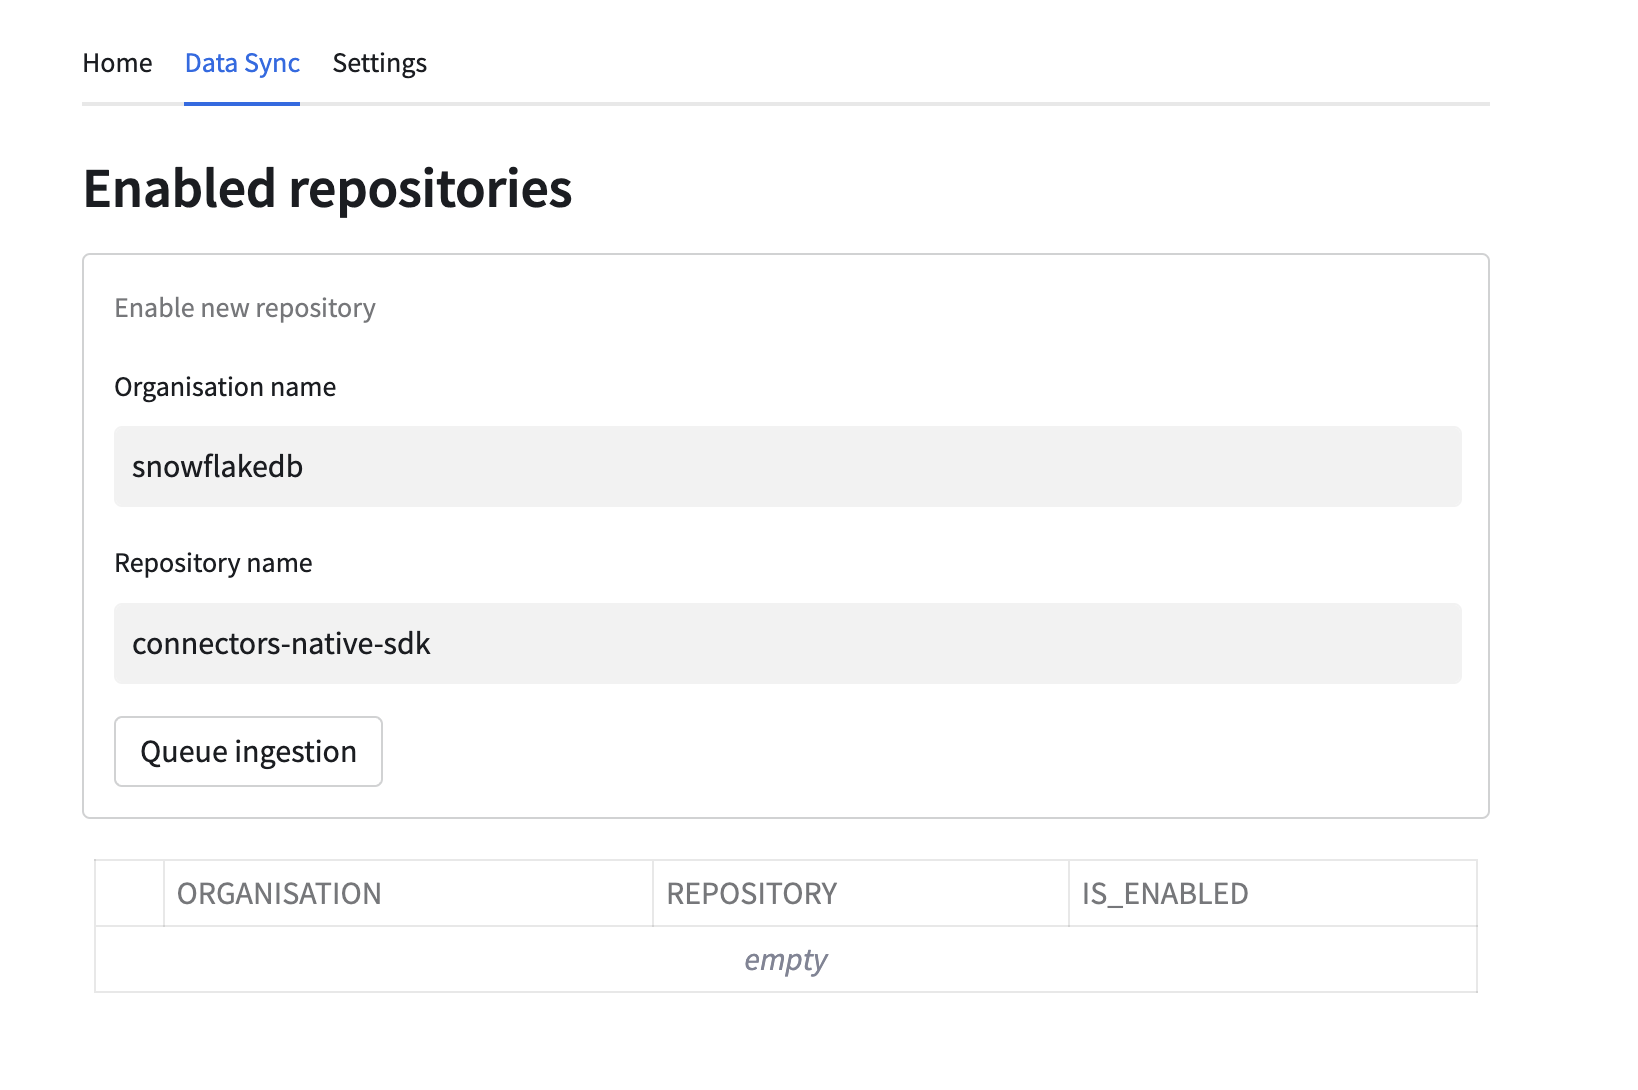
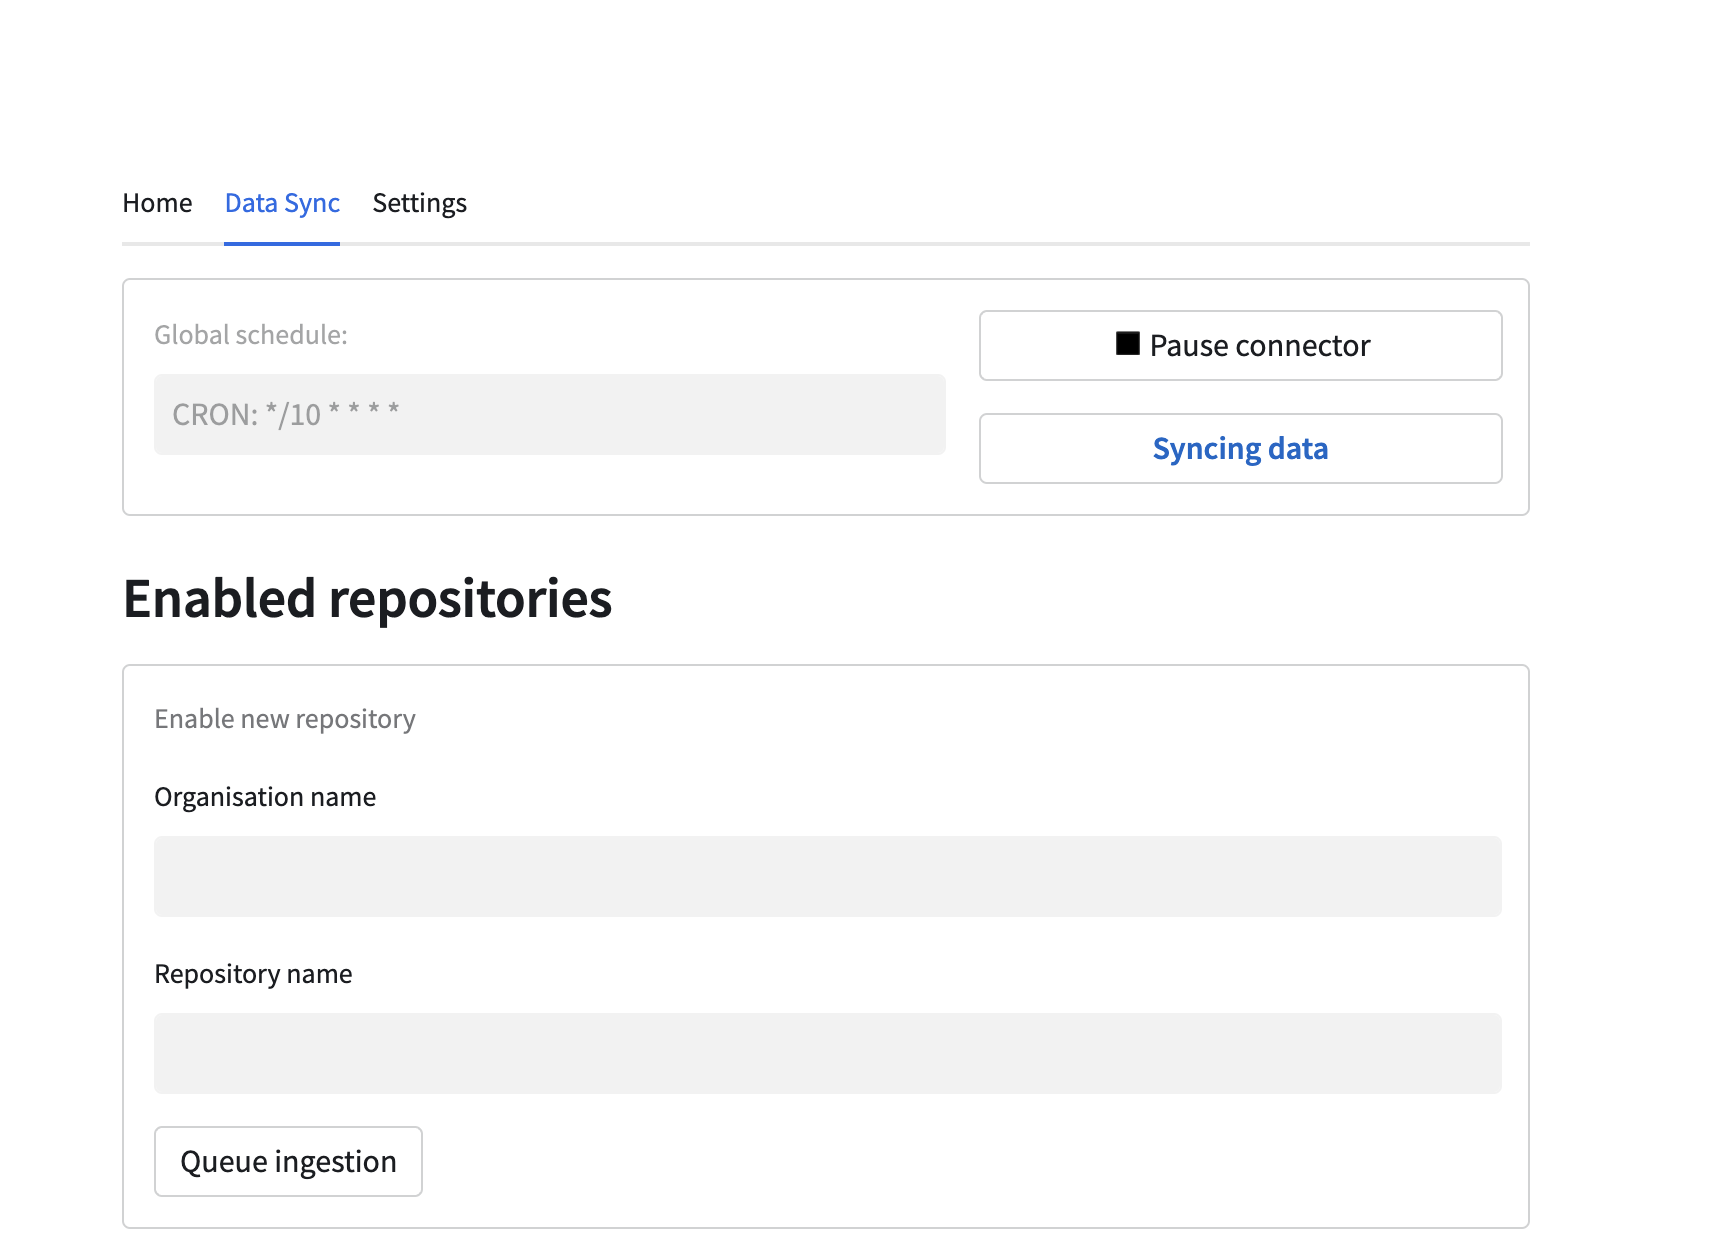
Update pausing and sync status

diff --git a/site/sfguides/src/connectors_native_sdk_java_example/connectors_native_sdk_java_example.md b/site/sfguides/src/connectors_native_sdk_java_example/connectors_native_sdk_java_example.md
@@ -352,6 +352,16 @@ The definition for a new resource will be saved, and it will be picked up by the
 
 ![list_defined_resources.png](assets/list_defined_resources.png)
 
+
+### Ingestion schedule and status
+At the top of the `Data Sync` tab there is a section containing general information about ingestion. 
+This section allows user to see the global schedule with which the configured resources will be ingested.
+Furthermore, it will be visited again in the Pause/resume section below. Last indicator here shows the current ingestion status.
+At first, it will be in `NOT SYNCING` state until first resource is defined. Then it will transition to `SYNCING`, and finally
+when at lest one resource finishes successfully it will show the date of last successful ingestion.
+
+![pause.png](assets/pause.png)
+
 ### Ingestion process
 Ingestion process is handled using a `Scheduler Task` and `Task Reactor` components. 
 The scheduler picks up the defined resources according to the global schedule and submits them as `Work Items` to the dispatcher queue.
@@ -382,12 +392,14 @@ The structure of tables is as follows:
 [//]: # (todo after ingestion is implemented)
 
 ### Pausing and resuming
-The connector can be paused and resumed, whenever desired. To do so just click the `Pause` button in the daily use screen. 
+The connector can be paused and resumed, whenever desired. To do so just click the `Pause` button in the `Data Sync` tab. 
 When pausing is triggered the underlying scheduling and work execution mechanism is disabled. However, the currently processing tasks
 will finish before the connector actually goes into `PAUSED` state. Because of that, it can take some time before it happens.
 
 To resume the connector you just have to press `Resume` button that will be displayed in place of the `Pause` button. 
 This will resume the scheduling task which will start queueing new `Work Items`.
+
+![pause.png](assets/pause.png)
 
 ## Customization
 Duration: 2
